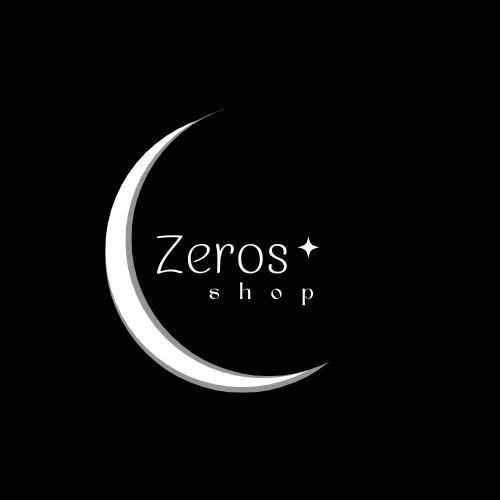
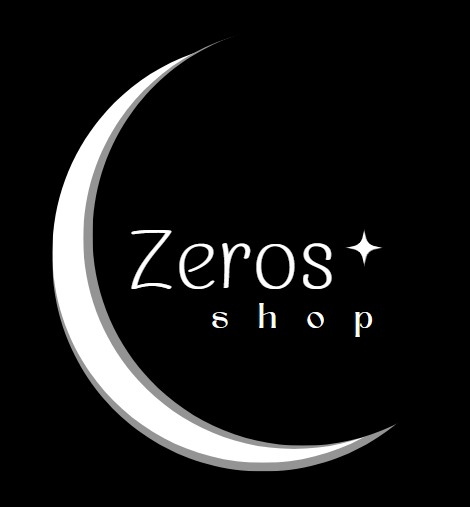
feat: :lipstick: Buttons
Diseño de botones

diff --git a/css/style.css b/css/style.css
@@ -11,16 +11,91 @@ body {
     display: flex;
     justify-content: center;
     align-items: center;
+    flex-direction: column;
 }
 
+
+img {
+    width: 420px;
+    height: 450px;   
+    align-items: center;
+
+}
+.botones {
+    display: flex;
+    flex-direction: column;
+    align-items: center;
+    gap: 20px;
+    margin: 25px;
+}
 
 .btn {
-    margin-top: 400px;
-    background-color: #787676;
-    text-align: center;
-    color: white;
-    padding: 10px 20px;
-    border: none;
-    border-radius: 5px;
-    font-size: 16px;
+    transition: all 0.10s ease-in-out;
+    font-family: "Encode-Bold";
 }
+.btn {
+    padding: 10px 35px;
+    border-radius: 50px;
+    background-image: linear-gradient(135deg, #787676  0%, #DFDEDE 100%);
+    box-shadow: 0px 10px 30px -6px #292526;/*derecha,abajo, izquierda, arriba */
+    border: none;
+    font-size: 20px;
+    color: white;
+}
+
+.btn:hover{
+    transform: translateY(3px);
+    box-shadow: none;
+} 
+
+.btn2 {
+    transition: all 0.10s ease-in-out;
+    font-family: "Encode-Bold";
+}
+
+.btn2 {
+    padding: 10px 35px;
+    border-radius: 50px;
+    background-image: linear-gradient(135deg, #787676  0%, #DFDEDE 100%);
+    box-shadow: 0px 10px 30px -6px #292526;/*derecha,abajo, izquierda, arriba */
+    border: none;
+    font-size: 20px;
+    color: white;
+}
+
+.btn2:hover{
+    transform: translateY(3px);
+    box-shadow: none;
+} 
+
+
+.btn2:active {
+    opacity: 0.5;
+  }
+
+
+.btn3 {
+    padding: 10px 20px;
+    border-radius: 50px;
+    background-image: linear-gradient(135deg, #787676  0%, #DFDEDE 100%);
+    box-shadow: 0px 10px 30px -6px #292526;/*derecha,abajo, izquierda, arriba */
+    border: none;
+    font-size: 20px;
+    color: white;
+}
+
+.btn3 {
+    transition: all 0.10s ease-in-out;
+    font-family: "Encode-Bold";
+    font-size: 20px;
+}
+
+.btn3:hover{
+    transform: translateY(3px);
+    box-shadow: none;
+} 
+
+
+.btn3:active {
+    opacity: 0.5;
+  }

diff --git a/index.html b/index.html
@@ -11,13 +11,26 @@
 
 <body>
     <img src="storage/img/zeros.png">
-    <div>
-        <button type="button" class="btn" onclick="redireccion()"> Home
-        </button>
-    </div>
-    <script src="js/index.js"></script>
+    <div class="botones">
+        <div>
+            <button type="button" class="btn" onclick="redireccion()"> Home
+            </button>
+        </div>
+        <script src="js/index.js"></script>
 
-    
+        <div>
+            <button type="button" class="btn2" onclick="redireccion2()"> Detail
+            </button>
+        </div>
+        <script src="js/index.js"></script>
+
+        <div>
+            <button type="button" class="btn3" onclick="redireccion3()"> Checkout
+            </button>
+        </div>
+        <script src="js/index.js"></script>
+    </div>
+
 </body>
 
 </html>

diff --git a/views/detail.html b/views/detail.html
@@ -1,0 +1,11 @@
+<!DOCTYPE html>
+<html lang="en">
+<head>
+    <meta charset="UTF-8">
+    <meta name="viewport" content="width=device-width, initial-scale=1.0">
+    <title>Product #1</title>
+</head>
+<body>
+    <h1>Producto 1</h1>
+</body>
+</html>

diff --git a/views/checkout.html b/views/checkout.html
@@ -1,0 +1,11 @@
+<!DOCTYPE html>
+<html lang="en">
+<head>
+    <meta charset="UTF-8">
+    <meta name="viewport" content="width=device-width, initial-scale=1.0">
+    <title>Checkout</title>
+</head>
+<body>
+    <h4>Checkout</h4>
+</body>
+</html>

diff --git a/js/index.js b/js/index.js
@@ -1,3 +1,12 @@
 function redireccion() {
     location.href = "views/home.html"
 }
+
+function redireccion2() {
+    location.href = "views/detail.html"
+}
+
+
+function redireccion3() {
+    location.href = "views/checkout.html"
+}

diff --git a/css/variables.css b/css/variables.css
@@ -16,7 +16,7 @@
 }
 
 @font-face {
-    font-family: "Encode-Regular";
+    font-family: "Encode-Bold";
     src: url(../storage/font/Encode/EncodeSans/static/EncodeSans-Bold.ttf);
 }
 
